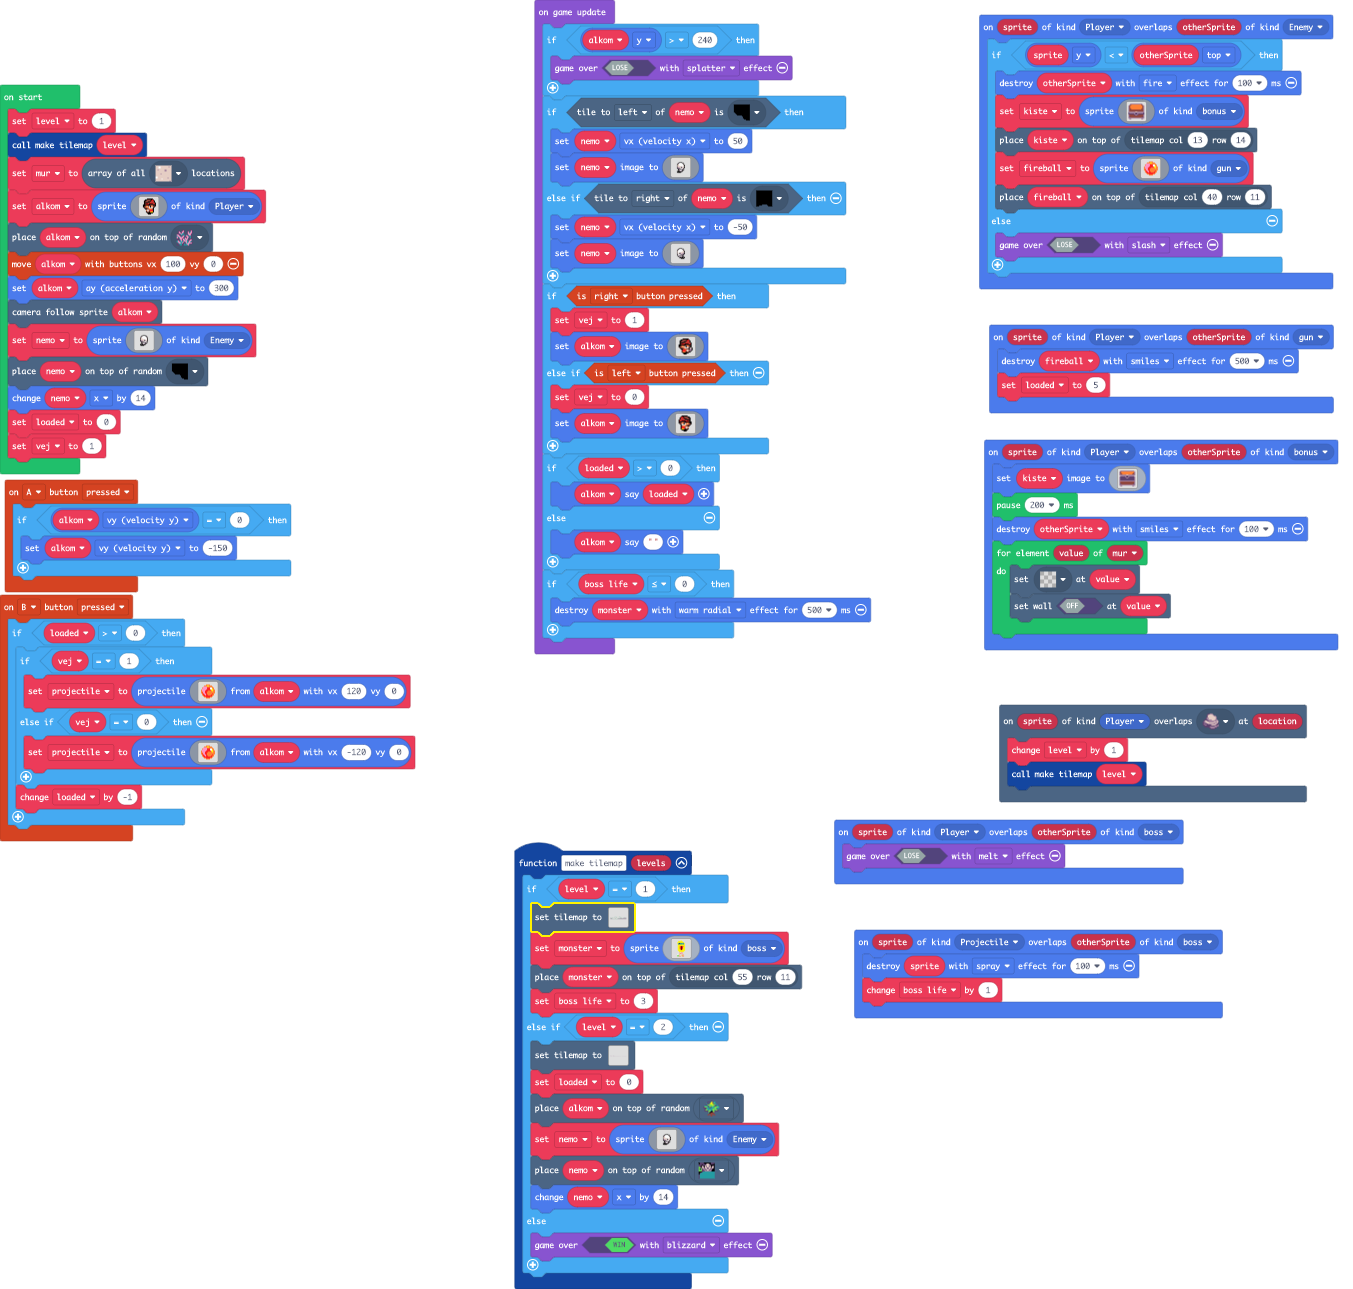
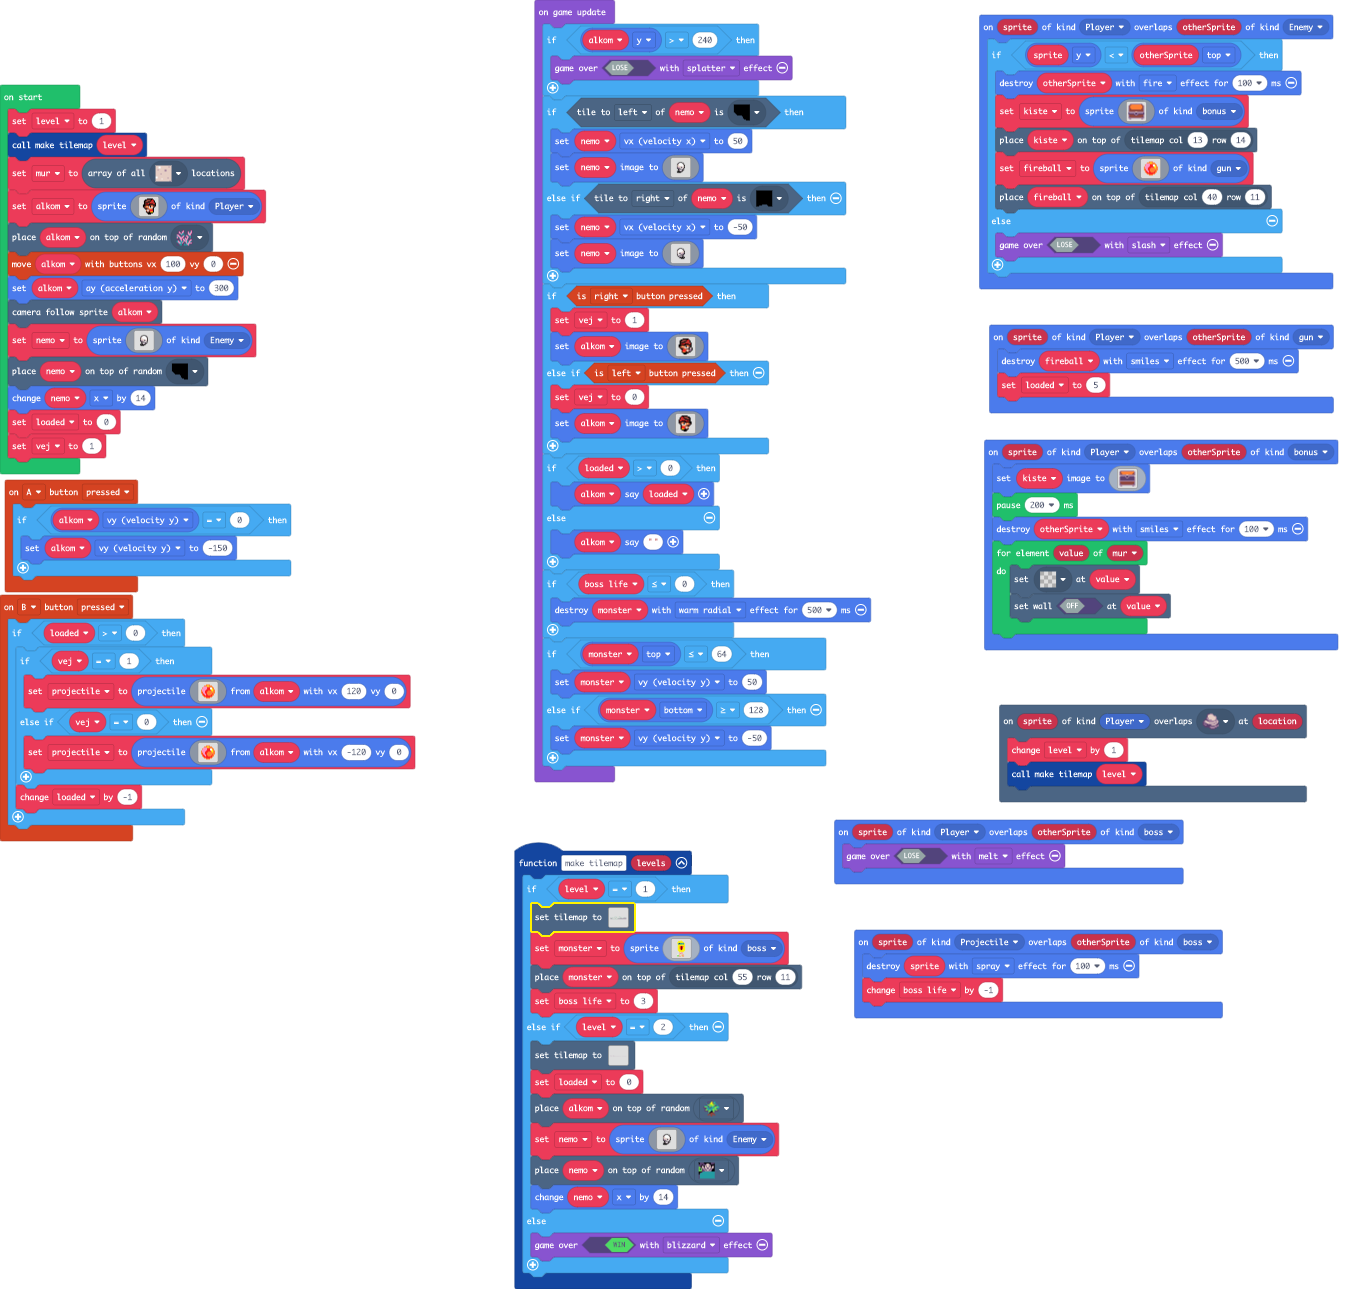
Update main.blocks, main.ts

Changed region(s): [[0.3725, 0.4965, 0.6208, 0.6206]]

diff --git a/main.ts b/main.ts
@@ -2,6 +2,7 @@ namespace SpriteKind {
     export const bonus = SpriteKind.create()
     export const gun = SpriteKind.create()
     export const boss = SpriteKind.create()
+    export const top = SpriteKind.create()
 }
 sprites.onOverlap(SpriteKind.Player, SpriteKind.boss, function (sprite, otherSprite) {
     game.over(false, effects.melt)
@@ -200,7 +201,7 @@ scene.onOverlapTile(SpriteKind.Player, sprites.castle.rock0, function (sprite, l
 })
 sprites.onOverlap(SpriteKind.Projectile, SpriteKind.boss, function (sprite, otherSprite) {
     sprite.destroy(effects.spray, 100)
-    boss_life += 1
+    boss_life += -1
 })
 sprites.onOverlap(SpriteKind.Player, SpriteKind.Enemy, function (sprite, otherSprite) {
     if (sprite.y < otherSprite.top) {
@@ -422,5 +423,10 @@ game.onUpdate(function () {
     }
     if (boss_life <= 0) {
         monster.destroy(effects.warmRadial, 500)
+    }
+    if (monster.top <= 64) {
+        monster.vy = 50
+    } else if (monster.bottom >= 128) {
+        monster.vy = -50
     }
 })
